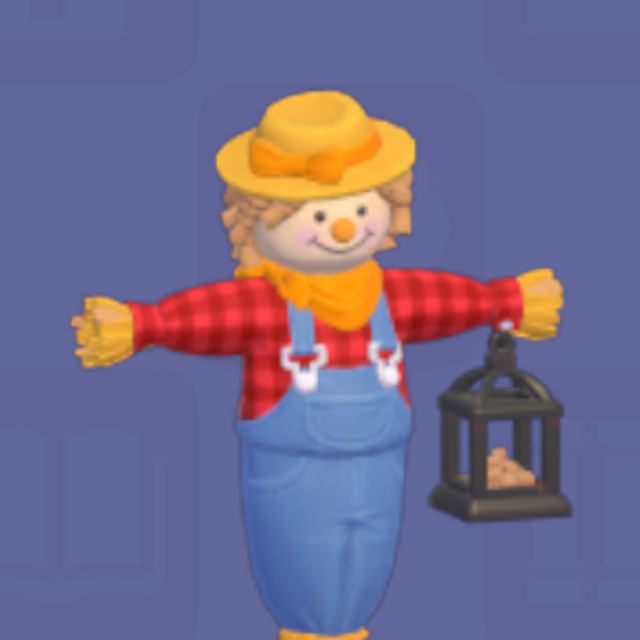
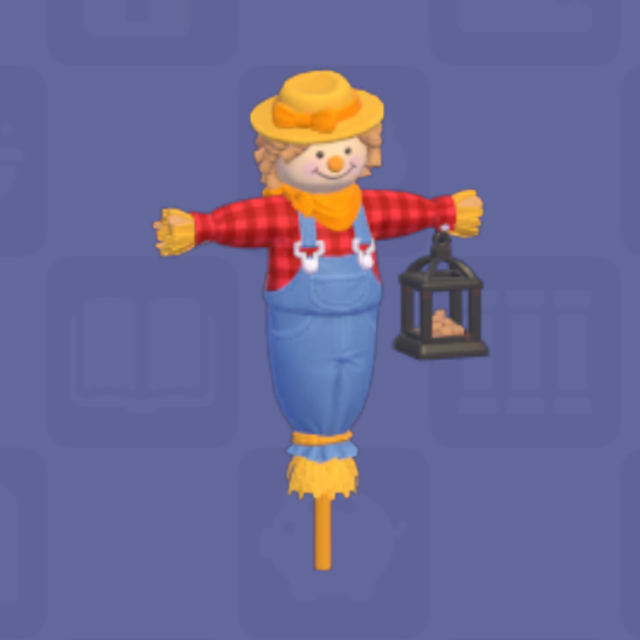
オーダーチケット「わら人形の止まり木」の画像切り抜きを中央寄せに修正
Claude-Session: https://claude.ai/code/session_01K3eMRAeT6oYS9BRu22swvm

Changed region(s): [[0.0938, 0.0938, 0.9062, 1.0]]

diff --git a/service-worker.js b/service-worker.js
@@ -1,5 +1,5 @@
 // キャッシュ名（更新時はバージョンを上げる）
-const CACHE_NAME = "hatopi-v2.494.0";
+const CACHE_NAME = "hatopi-v2.495.0";
 
 // キャッシュするファイル一覧
 const CACHE_FILES = [
